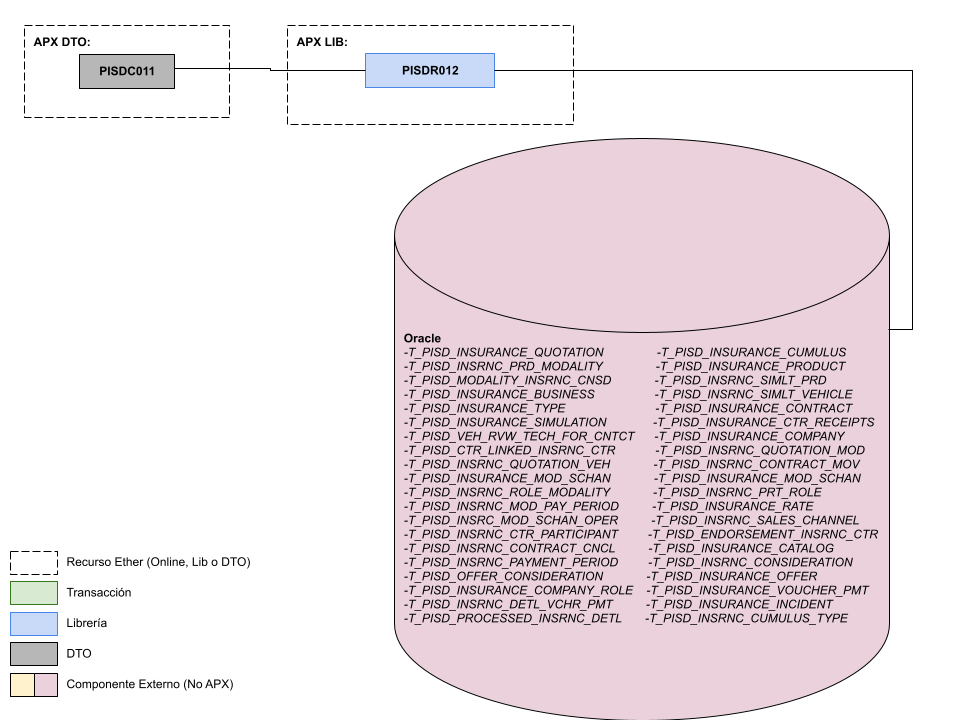
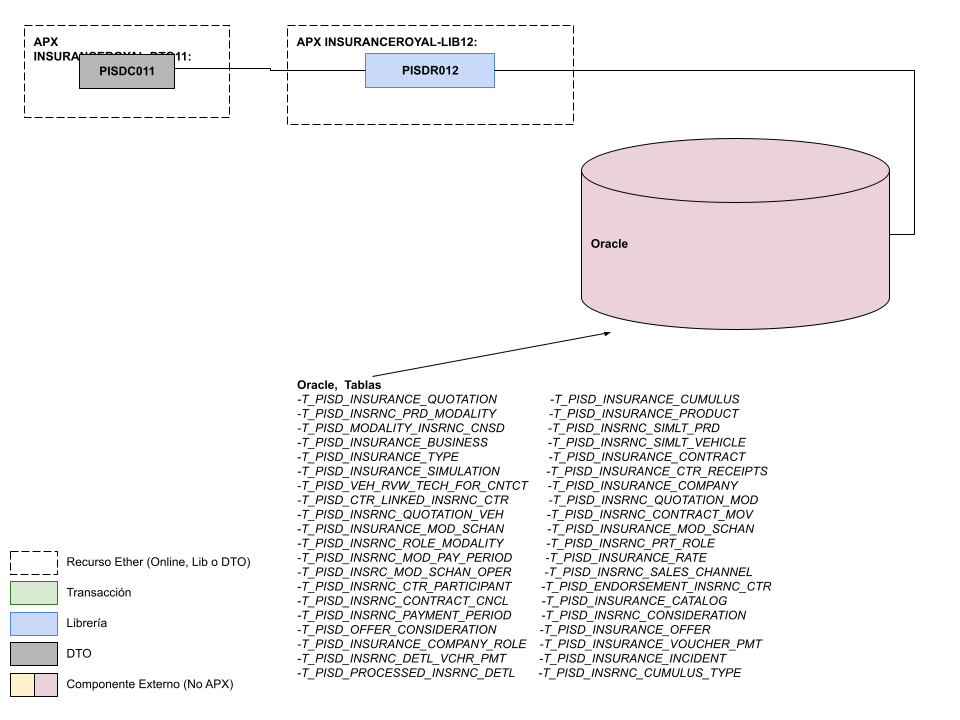
modifying the diseno componente and the version

diff --git a/doc/PISD_APX_Library_PISDR012.md b/doc/PISD_APX_Library_PISDR012.md
@@ -717,6 +717,6 @@ Map<String, Object> responseQueryGetPaymentPeriod = pisdR012.executeGetPaymentPe
 # ![createVehicleInsurancesQuotation](images/diseno-componentes-apx-lib12.png)
 
 ### 5.  Versiones:
-#### 5.1  Versión 0.19.3
+#### 5.1  Versión 0.19.4
 
-+ Versión 0.19.3: Esta versión permite realizar las operaciones necesarias en la BD para las transacciones PISDT001, 002, 003, 004, 005, 006, 007, RBVDT201, 202, 203.
++ Versión 0.19.4: Esta versión permite realizar las operaciones necesarias en la BD para las transacciones PISDT001, 002, 003, 004, 005, 006, 007, RBVDT201, 202, 203.
